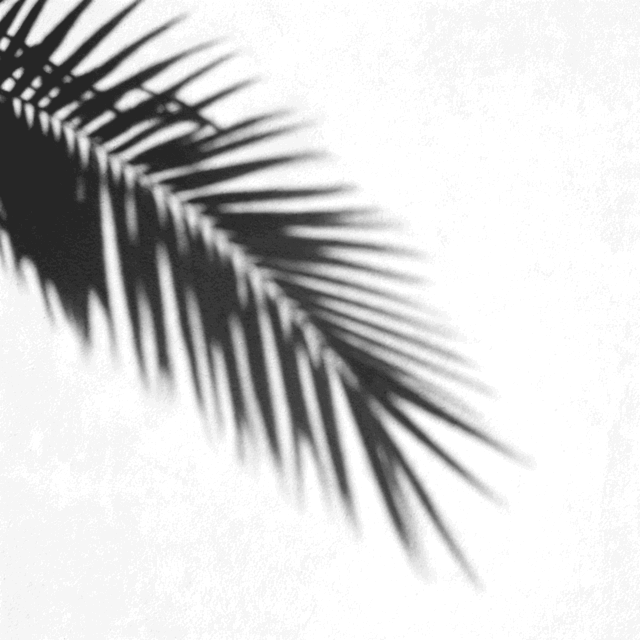
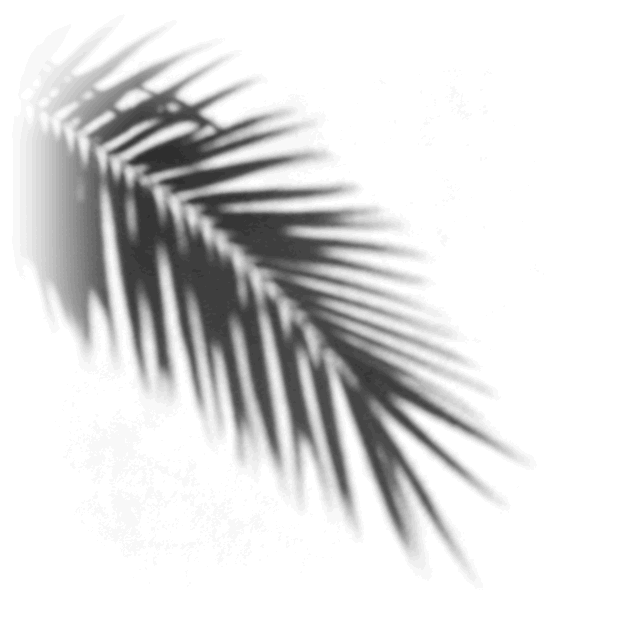
fix(designs): the palm shadow in Palm Shadow moves like a shadow
The cut-out reached the edge of its source photo, so a straight cut line
slid across the page. It is feathered now, softened like real light and a
fifth of the size. It eases toward its place instead of jumping with the
scroll, moves less, fades out over the two walls that have shadows of
their own, and no longer blends, which made Safari repaint the whole page
on every scroll frame. Palm Springs' swaying fronds get the same feathered
cut-out.

diff --git a/public/designs/palm-shadow/page.js b/public/designs/palm-shadow/page.js
@@ -15,23 +15,53 @@
   var reduce = matchMedia('(prefers-reduced-motion: reduce)').matches;
   var L = window.__lumaShadow || {};
 
-  /* ---------- THE SHADOW ---------- */
+  /* ---------- THE SHADOW ----------
+     It follows the scroll the way a shadow follows the sun: it eases
+     toward where it should be rather than jumping with every flick of
+     the page, it never moves far, and it gives way over the two walls
+     that already carry real shadows of their own, so they never double. */
   var drift = document.getElementById('drift');
   if (drift && !reduce) {
-    var ticking = false;
-    function move() {
-      ticking = false;
+    var walls = [document.getElementById('hero'), document.getElementById('closing')];
+    var cur = null, running = false;
+    function target() {
       var max = Math.max(1, document.documentElement.scrollHeight - innerHeight);
-      var p = scrollY / max;                       // 0 at the top, 1 at the foot
-      // across the page and back once, turning through a few degrees
-      var x = Math.sin(p * Math.PI * 1.6) * 34 - 8;  // vw
-      var y = -10 + p * 30;                          // vh
-      var a = -14 + p * 22;                          // deg
-      drift.style.transform = 'translate3d(' + x.toFixed(2) + 'vw,' + y.toFixed(2) + 'vh,0) rotate(' + a.toFixed(2) + 'deg)';
+      var p = Math.min(1, Math.max(0, scrollY / max));
+      var vw = innerWidth / 100, vh = innerHeight / 100;
+      // how much of the screen a wall with its own shadows is filling
+      var cover = 0;
+      walls.forEach(function (w) {
+        if (!w) return;
+        var r = w.getBoundingClientRect();
+        cover = Math.max(cover, Math.max(0, Math.min(r.bottom, innerHeight) - Math.max(r.top, 0)) / innerHeight);
+      });
+      return {
+        x: (Math.sin(p * Math.PI * 1.2) * 16 - 6) * vw,
+        y: (-8 + p * 14) * vh,
+        a: -10 + p * 9,
+        o: 1 - Math.min(1, cover * 1.6)
+      };
     }
-    addEventListener('scroll', function () { if (!ticking) { ticking = true; requestAnimationFrame(move); } }, { passive: true });
-    addEventListener('resize', move);
-    move();
+    function frame() {
+      var t = target();
+      if (!cur) cur = t;
+      var k = 0.075, done = true;
+      ['x', 'y', 'a', 'o'].forEach(function (key) {
+        var d = t[key] - cur[key];
+        cur[key] += d * k;
+        if (Math.abs(d) > (key === 'o' ? 0.002 : 0.2)) done = false;
+      });
+      drift.style.transform = 'translate3d(' + cur.x.toFixed(1) + 'px,' + cur.y.toFixed(1) + 'px,0) rotate(' + cur.a.toFixed(2) + 'deg)';
+      drift.style.opacity = (0.13 * cur.o).toFixed(3);
+      if (done) { running = false; return; }
+      requestAnimationFrame(frame);
+    }
+    function wake() { if (!running) { running = true; requestAnimationFrame(frame); } }
+    addEventListener('scroll', wake, { passive: true });
+    addEventListener('resize', wake);
+    wake();
+  } else if (drift) {
+    drift.style.opacity = '0';
   }
 
   /* ---------- REVEALS ---------- */

diff --git a/public/designs/palm-shadow/shadow.css b/public/designs/palm-shadow/shadow.css
@@ -40,9 +40,12 @@ h2{ font:italic 400 clamp(32px,8vw,48px)/1.08 var(--display); color:var(--ink) }
 /* the shadow that drifts down the page with the guest */
 .drift{
   position:fixed; z-index:40; pointer-events:none; top:0; left:0;
-  width:max(110vmin,620px); height:auto; opacity:.15; mix-blend-mode:multiply;
-  transform:translate3d(-8vw,-10vh,0) rotate(-14deg); transform-origin:30% 20%;
-  will-change:transform;
+  width:max(110vmin,620px); height:auto; opacity:0;
+  /* no blend mode: a fixed layer that blends makes the browser repaint the
+     whole page under it on every frame of a scroll. The cut-out is already
+     a soft brown shadow, so plain transparency reads the same. */
+  transform:translate3d(-6vw,-8vh,0) rotate(-10deg); transform-origin:30% 20%;
+  will-change:transform, opacity; backface-visibility:hidden;
 }
 
 /* ============================================================

diff --git a/public/designs/palm-shadow/index.html b/public/designs/palm-shadow/index.html
@@ -9,7 +9,7 @@
 
 <!-- Fonts served by Luma (licences beside each file in ../_shared/fonts) -->
 <link rel="stylesheet" href="../_shared/fonts/fonts.css">
-<link rel="stylesheet" href="shadow.css?v=1">
+<link rel="stylesheet" href="shadow.css?v=2">
 <style>
   html.luma-loading { background: #efe4d2; }
   html.luma-loading body { visibility: hidden; }
@@ -161,6 +161,6 @@
 </main>
 
 <script src="../_shared/luma-bridge.js?v=2"></script>
-<script src="luma-shadow.js?v=1"></script>
+<script src="luma-shadow.js?v=2"></script>
 </body>
 </html>

diff --git a/public/designs/palm-shadow/luma-shadow.js b/public/designs/palm-shadow/luma-shadow.js
@@ -186,7 +186,7 @@
     function go() {
       render(d);
       if (typeof window.lumaAfterRender === 'function') window.lumaAfterRender(d);
-      start('page.js?v=1');
+      start('page.js?v=2');
     }
     if (document.readyState === 'loading') document.addEventListener('DOMContentLoaded', go);
     else go();
